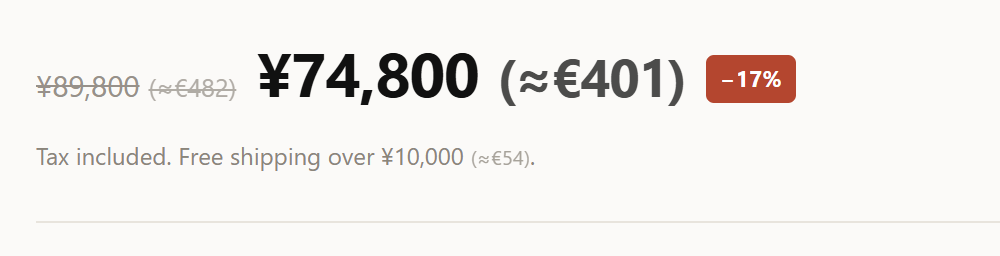
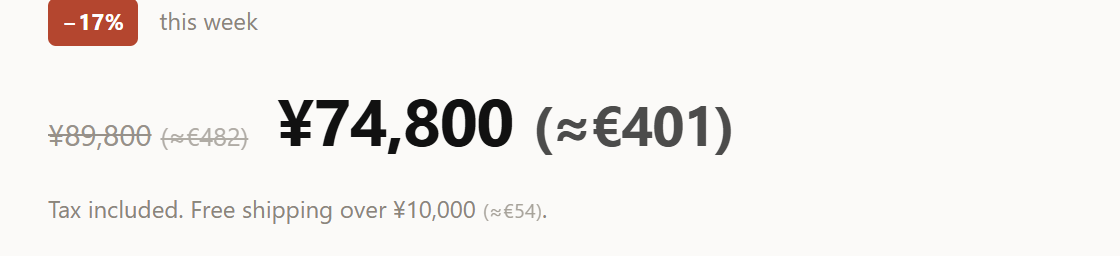
Rewrite the README around a recorded demo, purge the em dash
The README was a wall of prose with four flat screenshots and no badges. It
now follows the house layout: centred title, an animated demo of the real
extension, a badge row, bold-lead feature bullets and a table of what the
detector accepts and refuses.

Screenshots redone against the real build. The hero is a 155-frame recording
(hover, click a row to copy, scroll, hover a range) encoded with libwebp_anim,
400 kB. The side-by-side of the same $49.99 on a .com and a .ca shop replaces
three paragraphs. The old banner and tooltip stills are gone.

The em dash is banned in this repo's prose, and 99 lines carried one. Every
one was rewritten rather than swapped for a colon: prose, comments, changelog,
privacy policy, store copy, and the one that reached the UI in the base
currency dropdown. The only survivor is the character class in
`RANGE_DASH`, where it is matched input rather than writing.

Two hover bugs surfaced while recording:

- Moving the pointer onto the tooltip could dismiss it. `onMouseOut` tested
  the bridge against `lastPointer`, which `mouseout` predates, so the reading
  was the position still inside the price. A hand crossing the 8 px gap in one
  sample lost the card on the way to clicking it.
- Leaving a price upward enters its own container, whose `mouseover` armed a
  fresh hover and cleared the tooltip. It now takes the same bridge exception.

56/56 in a real browser after the change, 154 unit tests, typecheck clean.

Changed region(s): [[0.031, 0.1875, 0.806, 0.6562], [0.031, 0.7812, 1.0, 0.875], [0.031, 0.0, 0.248, 0.1875]]

diff --git a/src/detector.ts b/src/detector.ts
@@ -8,9 +8,9 @@ import type { TokenResolver } from './locale';
  * Matching is case-sensitive on purpose: with an `i` flag, ISO codes swallow
  * ordinary English ("try 100 times" → TRY 100, "php 8.2" → PHP 8.2).
  *
- * `prefix` — token before the amount, with at most one space (`RM 5`).
- * `suffix` — token after the amount, with at most one space (`199 kr`).
- * `tight`  — prefix that must touch the digits (`R100`). Reserved for tokens so
+ * `prefix`: token before the amount, with at most one space (`RM 5`).
+ * `suffix`: token after the amount, with at most one space (`199 kr`).
+ * `tight`:  prefix that must touch the digits (`R100`). Reserved for tokens so
  *            short that the spaced form matches prose ("see section R 5").
  */
 interface SymbolSpec {
@@ -29,7 +29,7 @@ const tightPrefix = (token: string, code: string): SymbolSpec =>
   ({ token, code, prefix: false, suffix: false, tight: true });
 
 const SYMBOLS: SymbolSpec[] = [
-  // Sign symbols — unambiguous, allowed on either side.
+  // Sign symbols, unambiguous, allowed on either side.
   both('$', 'USD'), both('€', 'EUR'), both('£', 'GBP'), both('¥', 'JPY'),
   both('￥', 'JPY'), both('₹', 'INR'), both('₩', 'KRW'), both('₦', 'NGN'),
   both('₱', 'PHP'), both('฿', 'THB'), both('₺', 'TRY'), both('₽', 'RUB'),
@@ -77,11 +77,11 @@ const GROUP_SEP = `[,.${SPACE_CLASS}]`;
 
 /**
  * Three shapes, tried in order:
- * 1. Indian grouping — 1,49,900 / 12,34,567.89 (two-digit groups above the
+ * 1. Indian grouping: 1,49,900 / 12,34,567.89 (two-digit groups above the
  *    first thousand). Must come first: the western pattern would match only
  *    the leading digit and the boundary lookahead would then reject the lot.
- * 2. western grouping — 1,234.56 / 1.234,56 / 1 234,56
- * 3. plain digit run — 746000 / 22000 (common in VND, IDR, KZT…)
+ * 2. western grouping: 1,234.56 / 1.234,56 / 1 234,56
+ * 3. plain digit run: 746000 / 22000 (common in VND, IDR, KZT…)
  *
  * Up to three decimals so KWD and friends survive; the boundary lookahead
  * below rejects anything longer instead of silently truncating it.
@@ -151,7 +151,7 @@ export function normalizeAmount(raw: string, code: string): number {
   if (lastComma === -1 && lastDot === -1) return parseFloat(s);
 
   // Both separators present: the rightmost one is the decimal point, unless it
-  // is followed by three digits — then both are thousands separators.
+  // is followed by three digits, in which case both are thousands separators.
   if (lastComma !== -1 && lastDot !== -1) {
     const decimalIndex = Math.max(lastComma, lastDot);
     if (s.length - decimalIndex - 1 === 3) return parseFloat(s.replace(/[,.]/g, ''));
@@ -231,7 +231,7 @@ function parseMatch(
       matchStart: index,
       matchEnd: index + match[0].length,
       textSource,
-      // Only when the page actually changed the reading — a `$` on a .ca domain,
+      // Only when the page actually changed the reading: a `$` on a .ca domain,
       // not every `$` in existence. The tooltip says so, and a claim that fires
       // on every price is a claim nobody reads.
       ...(currencyCode !== spec.code ? { inferred: true } : {}),
@@ -414,7 +414,7 @@ export function detectPricesFromElement(element: Element, resolve?: TokenResolve
 
     const fullText = element.textContent ?? '';
     // Non-leaf elements with short content are likely price containers (Steam, Amazon…)
-    // — use full textContent so nested prices are found, hitboxes handle precision.
+    // so use full textContent: nested prices are found, hitboxes handle precision.
     // Long elements use directTextContent to avoid matching entire paragraphs.
     const textSource = element.childElementCount === 0 || fullText.trim().length <= 150
       ? 'full'

diff --git a/src/settings.ts b/src/settings.ts
@@ -4,11 +4,11 @@ import { STORAGE, DEFAULT_CURRENCIES } from './types';
 /**
  * How converted amounts are rounded before display.
  *
- * `exact`  — whatever the currency's minor unit calls for ($39.36, ¥1235).
- * `smart`  — fewer digits as the amount grows, prefixed with `≈` whenever the
+ * `exact`:   whatever the currency's minor unit calls for ($39.36, ¥1235).
+ * `smart`:   fewer digits as the amount grows, prefixed with `≈` whenever the
  *            rounding actually moved the number. A conversion is an estimate;
  *            two decimals on a 4-digit amount pretend otherwise.
- * `integer`— never any decimals.
+ * `integer`: never any decimals.
  */
 export type Rounding = 'exact' | 'smart' | 'integer';
 
@@ -77,7 +77,7 @@ function validCodeList(value: unknown): string[] {
 /**
  * Accepts anything and returns something usable. Storage is written by older
  * builds of this extension and, in the popup's case, by a user editing it in
- * devtools — neither is a reason to end up with `undefined.length`.
+ * devtools. Neither is a reason to end up with `undefined.length`.
  */
 export function parseSettings(raw: unknown): Settings {
   const input = (raw && typeof raw === 'object' ? raw : {}) as Record<string, unknown>;
@@ -134,14 +134,14 @@ export async function loadSettings(): Promise<Settings> {
       return migrated;
     }
   } catch {
-    // Storage can be stubbed (some extension wrappers) — defaults still work.
+    // Storage can be stubbed (some extension wrappers) and defaults still work.
   }
   return { ...DEFAULT_SETTINGS, targetCurrencies: DEFAULT_CURRENCIES.filter((c) => c !== DEFAULT_SETTINGS.baseCurrency) };
 }
 
 /**
  * Svelte 5 wraps `$state` arrays in a Proxy, and `chrome.storage` serialises a
- * proxied array as a plain **object** — `{"0":"JPY","1":"USD"}`. Reading it back
+ * proxied array as a plain **object**, `{"0":"JPY","1":"USD"}`. Reading it back
  * then fails `Array.isArray`, so the target list silently reverted to the
  * defaults and every paused site disappeared on the next page load. Spreading
  * produces a real array and costs nothing.

diff --git a/entrypoints/content.ts b/entrypoints/content.ts
@@ -354,14 +354,20 @@ export default defineContentScript({
       // Inside the element we already armed: mousemove owns the decision.
       if (activeElement && (target === activeElement || activeElement.contains(target))) return;
 
+      // Crossing the gap towards the tooltip. The pointer leaves the price and
+      // passes over its container, whose mouseover would otherwise clear the
+      // hover and take the tooltip away before it can be clicked. mousemove and
+      // mouseout already make that exception; this is the third way in.
+      if (activeIndex !== -1 && withinCard(e.clientX, e.clientY)) return;
+
       if (hoverTimer !== null) clearTimeout(hoverTimer);
       if (activeElement) clearHover();
 
       const { clientX: x, clientY: y } = e;
       lastPointer = { x, y };
 
-      // Hover intent. Everything expensive — textContent, the regex, building
-      // ranges — happens here and nowhere else, so sweeping the pointer across
+      // Hover intent. Everything expensive (textContent, the regex, building
+      // ranges) happens here and nowhere else, so sweeping the pointer across
       // a page of prices costs nothing at all.
       const delay = settings.hoverDelayMs;
       if (delay <= 0) { arm(target, x, y); return; }
@@ -401,7 +407,11 @@ export default defineContentScript({
       const related = e.relatedTarget as Element | null;
       // Moving onto the tooltip itself, or deeper into the armed element.
       if (related && (related === host || (activeElement && activeElement.contains(related)))) return;
-      if (related && withinCard(lastPointer.x, lastPointer.y)) return;
+      // Where the pointer went, not where it was. mouseout fires before the
+      // mousemove that updates lastPointer, so the old reading was still inside
+      // the price: a pointer moving fast enough to clear the gap in one sample
+      // lost the tooltip on the way to clicking it.
+      if (related && withinCard(e.clientX, e.clientY)) return;
 
       clearHover();
       hide();

diff --git a/src/tooltip.svelte b/src/tooltip.svelte
@@ -2,7 +2,7 @@
   import { flagToCountryCode } from './currencies';
   // Statically imported on purpose. Splitting the flags into a lazily fetched
   // chunk would need `web_accessible_resources`, which lets any page probe for
-  // the extension — a worse trade than 12 kB of base64 in the bundle.
+  // the extension, a worse trade than 12 kB of base64 in the bundle.
   import { flagImage } from './flags';
   import { formatCurrencyAmount, formatCurrencyRange } from './formatter';
   import { t } from './i18n';
@@ -121,7 +121,7 @@
     scratch.value = text;
     scratch.setAttribute('readonly', '');
     // Off-screen, not invisible. A textarea at 1px with `opacity: 0` cannot be
-    // reliably selected — the copy silently returned false about half the time.
+    // reliably selected: the copy silently returned false about half the time.
     // Parked to the left at the current scroll offset, it never flashes and it
     // never fails.
     scratch.style.cssText =
@@ -147,7 +147,7 @@
     if (!ok && navigator.clipboard) {
       // Raced, never plainly awaited: a clipboard promise that settles neither
       // way is a real state this API gets into, and awaiting one means the user
-      // clicks and nothing ever happens — no copy, no error, no console entry.
+      // clicks and nothing ever happens: no copy, no error, no console entry.
       ok = await Promise.race([
         navigator.clipboard.writeText(text).then(() => true, () => false),
         new Promise<boolean>((resolve) => setTimeout(() => resolve(false), 500)),

diff --git a/src/locale.ts b/src/locale.ts
@@ -2,13 +2,13 @@ import { CURRENCY_BY_CODE } from './currencies';
 
 /**
  * A handful of currency tokens are shared by several countries. Read literally,
- * they produce a confidently wrong conversion — `$49` on amazon.ca became
+ * they produce a confidently wrong conversion. `$49` on amazon.ca became
  * 49 USD, `1 099 kr` on a Norwegian shop became SEK. That is worse than showing
  * nothing, because the user has no way to tell it happened.
  *
  * The page itself carries the answer: a ccTLD is chosen for a market, and a
- * region subtag in `<html lang>` says which one. Neither needs a permission —
- * the content script already runs in that page.
+ * region subtag in `<html lang>` says which one. Neither needs a permission,
+ * since the content script already runs in that page.
  */
 
 /** Token families that mean different currencies in different places. */
@@ -34,7 +34,7 @@ const REGION_CURRENCY: Record<string, Record<string, string>> = {
 
 /**
  * ccTLDs trusted as a market signal. Deliberately excludes the ones sold as
- * generic vanity domains — `.co`, `.io`, `.me`, `.ai`, `.tv`, `.to`, `.cc` —
+ * generic vanity domains (`.co`, `.io`, `.me`, `.ai`, `.tv`, `.to`, `.cc`),
  * where the country has nothing to do with the site.
  */
 const MARKET_CCTLD = new Set([

diff --git a/src/inline.ts b/src/inline.ts
@@ -62,7 +62,7 @@ export function createInlineAnnotator(deps: InlineDeps): Annotator {
   const inserted = new Set<HTMLElement>();
   /**
    * Text a node held when it was last annotated. A node reaches the queue more
-   * than once — a mutation record and a rescan can both name it — and without
+   * than once (a mutation record and a rescan can both name it) and without
    * this it would collect a second copy of every badge. Unchanged text means
    * there is nothing left to do; changed text means the old badges are wrong
    * and have to come off first.
@@ -76,7 +76,7 @@ export function createInlineAnnotator(deps: InlineDeps): Annotator {
 
   /**
    * Mutation records are delivered as a microtask, long after `writing` has
-   * gone back to false — so the flag alone does not keep our own edits out.
+   * gone back to false, so the flag alone does not keep our own edits out.
    * `splitText` in particular queues a characterData record on the node we just
    * annotated, which came straight back in and annotated it a second time.
    * Taking and discarding the records while still holding the flag is what

diff --git a/src/query.ts b/src/query.ts
@@ -64,7 +64,7 @@ const NUMERIC_TOKEN = /^[\d,.']+$/;
 
 /**
  * `20 chf` and `chf 20` mean the same thing, and the amount may itself contain
- * spaces ("1 234,56 eur") — so the amount is rebuilt from every numeric token
+ * spaces ("1 234,56 eur"), so the amount is rebuilt from every numeric token
  * before the detector, which only reads one shape, is asked about it.
  */
 function detectAmount(amountTokens: string[], code: string): DetectedPrice | null {
@@ -85,7 +85,7 @@ export function parseQuery(raw: string, baseCurrency?: string): ParsedQuery {
     const codes = words.map(resolveCurrencyCode);
 
     if (words.length === 0 && baseCurrency) {
-      // A bare number means "this many of my own currency" — the most common
+      // A bare number means "this many of my own currency", the most common
       // thing anyone types into a converter, and it used to filter the list to
       // nothing at all.
       const price = detectAmount(numbers, baseCurrency);

diff --git a/src/formatter.ts b/src/formatter.ts
@@ -4,7 +4,7 @@ import type { Rounding } from './settings';
 const FORMATTERS = new Map<string, Intl.NumberFormat>();
 
 /**
- * `Intl` already knows each currency's minor unit from ISO 4217 — 0 for JPY and
+ * `Intl` already knows each currency's minor unit from ISO 4217: 0 for JPY and
  * KRW, 3 for KWD. Overriding `maximumFractionDigits` by hand, as this used to,
  * only ever got that wrong: KWD was capped at two decimals.
  */
@@ -89,7 +89,7 @@ export function formatCurrencyRange(
   const low = formatCurrencyAmount(min, code, rounding);
   const high = formatCurrencyAmount(max, code, rounding);
 
-  // Drop the leading run the two share — symbol, and `≈` when both carry it —
+  // Drop the leading run the two share (symbol, and `≈` when both carry it)
   // but never a digit, so "$1" and "$12" keep their first character.
   let shared = 0;
   while (

diff --git a/scripts/gen-icons.ts b/scripts/gen-icons.ts
@@ -1,17 +1,17 @@
 import { Resvg } from '@resvg/resvg-js';
 import { writeFileSync, mkdirSync } from 'fs';
 
-// "$→€" icon — dark background, white dollar, green arrow + euro
+// "$→€" icon: dark background, white dollar, green arrow and euro
 const svg = `<svg xmlns="http://www.w3.org/2000/svg" viewBox="0 0 128 128">
   <rect width="128" height="128" rx="22" fill="#111111"/>
 
-  <!-- $ — white, left -->
+  <!-- $, white, left -->
   <text x="38" y="88"
     font-family="Arial, Helvetica, sans-serif"
     font-size="72" font-weight="700"
     fill="#ffffff" text-anchor="middle">$</text>
 
-  <!-- € — green, right -->
+  <!-- €, green, right -->
   <text x="90" y="88"
     font-family="Arial, Helvetica, sans-serif"
     font-size="72" font-weight="700"

diff --git a/entrypoints/options/App.svelte b/entrypoints/options/App.svelte
@@ -166,7 +166,7 @@
           {/if}
           <select id="base" value={settings.baseCurrency} onchange={(e) => setBase(e.currentTarget.value)}>
             {#each CURRENCIES as currency (currency.code)}
-              <option value={currency.code}>{currency.code} — {currency.name}</option>
+              <option value={currency.code}>{currency.code} · {currency.name}</option>
             {/each}
           </select>
         </div>

diff --git a/src/convert.ts b/src/convert.ts
@@ -10,7 +10,7 @@ function usableRate(rates: ExchangeRates, code: string): number | null {
 
 /**
  * Converts one detected price into every requested currency, keeping the order
- * it was given — the caller puts the user's own currency first, and the tooltip
+ * it was given. The caller puts the user's own currency first, and the tooltip
  * relies on that to know which row to emphasise.
  */
 export function convertPrice(

diff --git a/scripts/gen-flags.ts b/scripts/gen-flags.ts
@@ -30,7 +30,7 @@ for (const cc of codes) {
   console.log(`✓ ${cc} (${image.byteLength} bytes)`);
 }
 
-const out = `// Generated by scripts/gen-flags.ts — do not edit by hand.
+const out = `// Generated by scripts/gen-flags.ts. Do not edit by hand.
 // Flag artwork from flagcdn.com (public domain), inlined so the extension makes
 // no third-party request at runtime.
 
